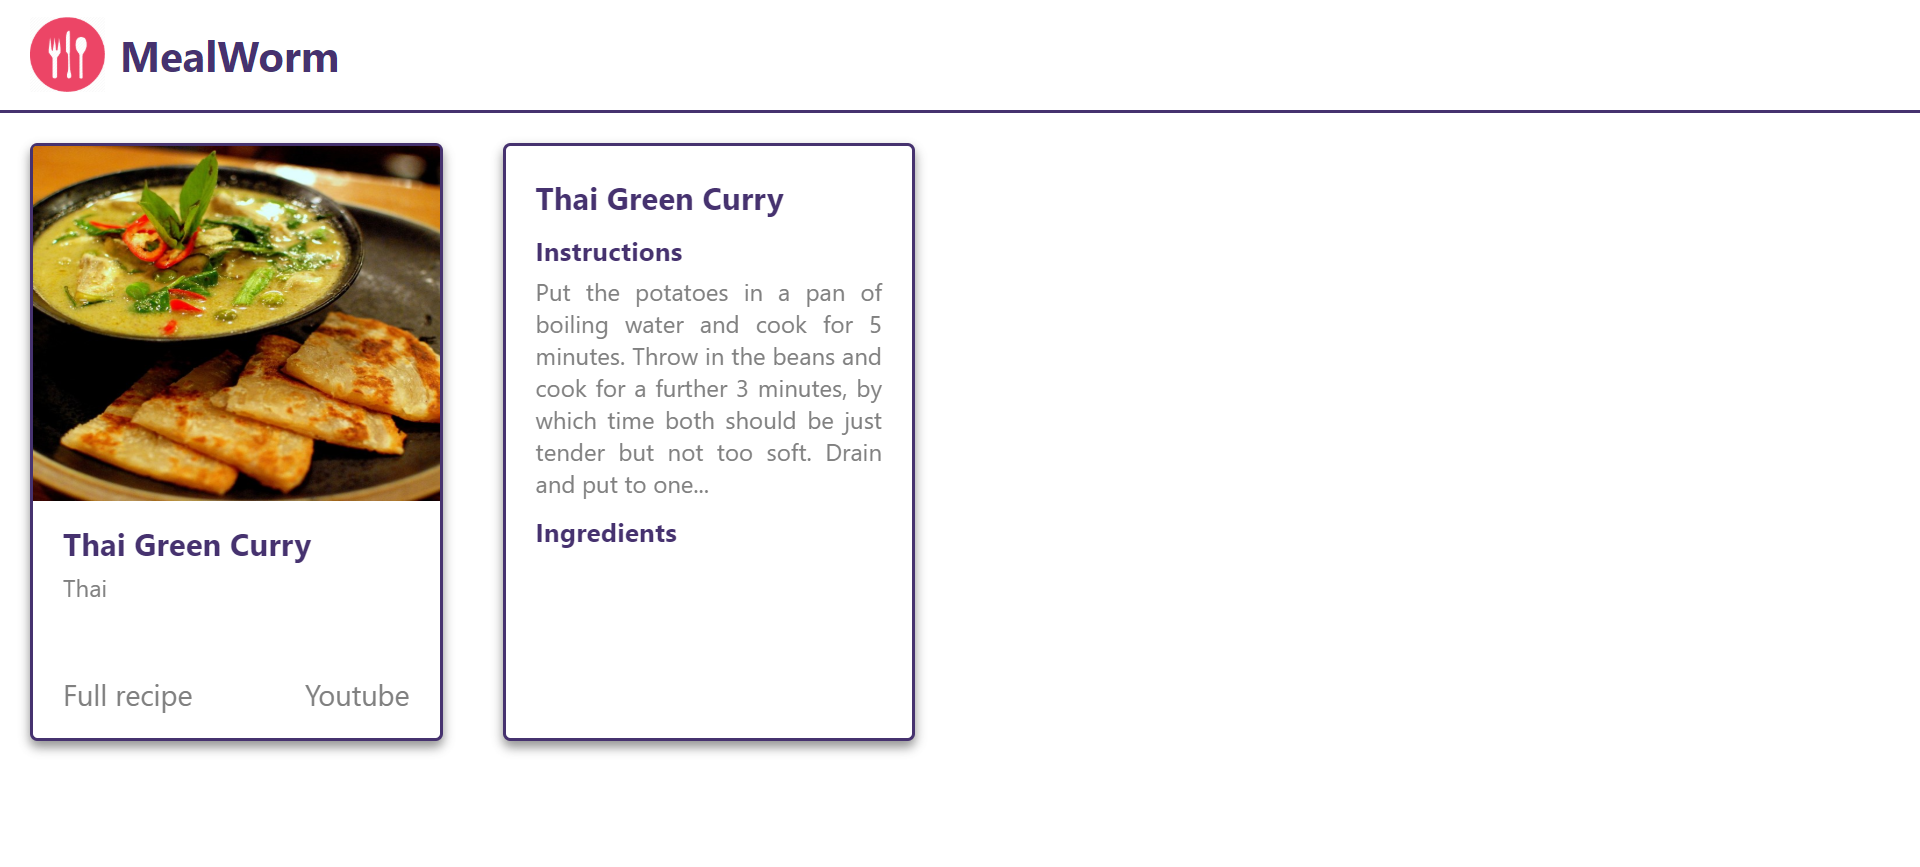
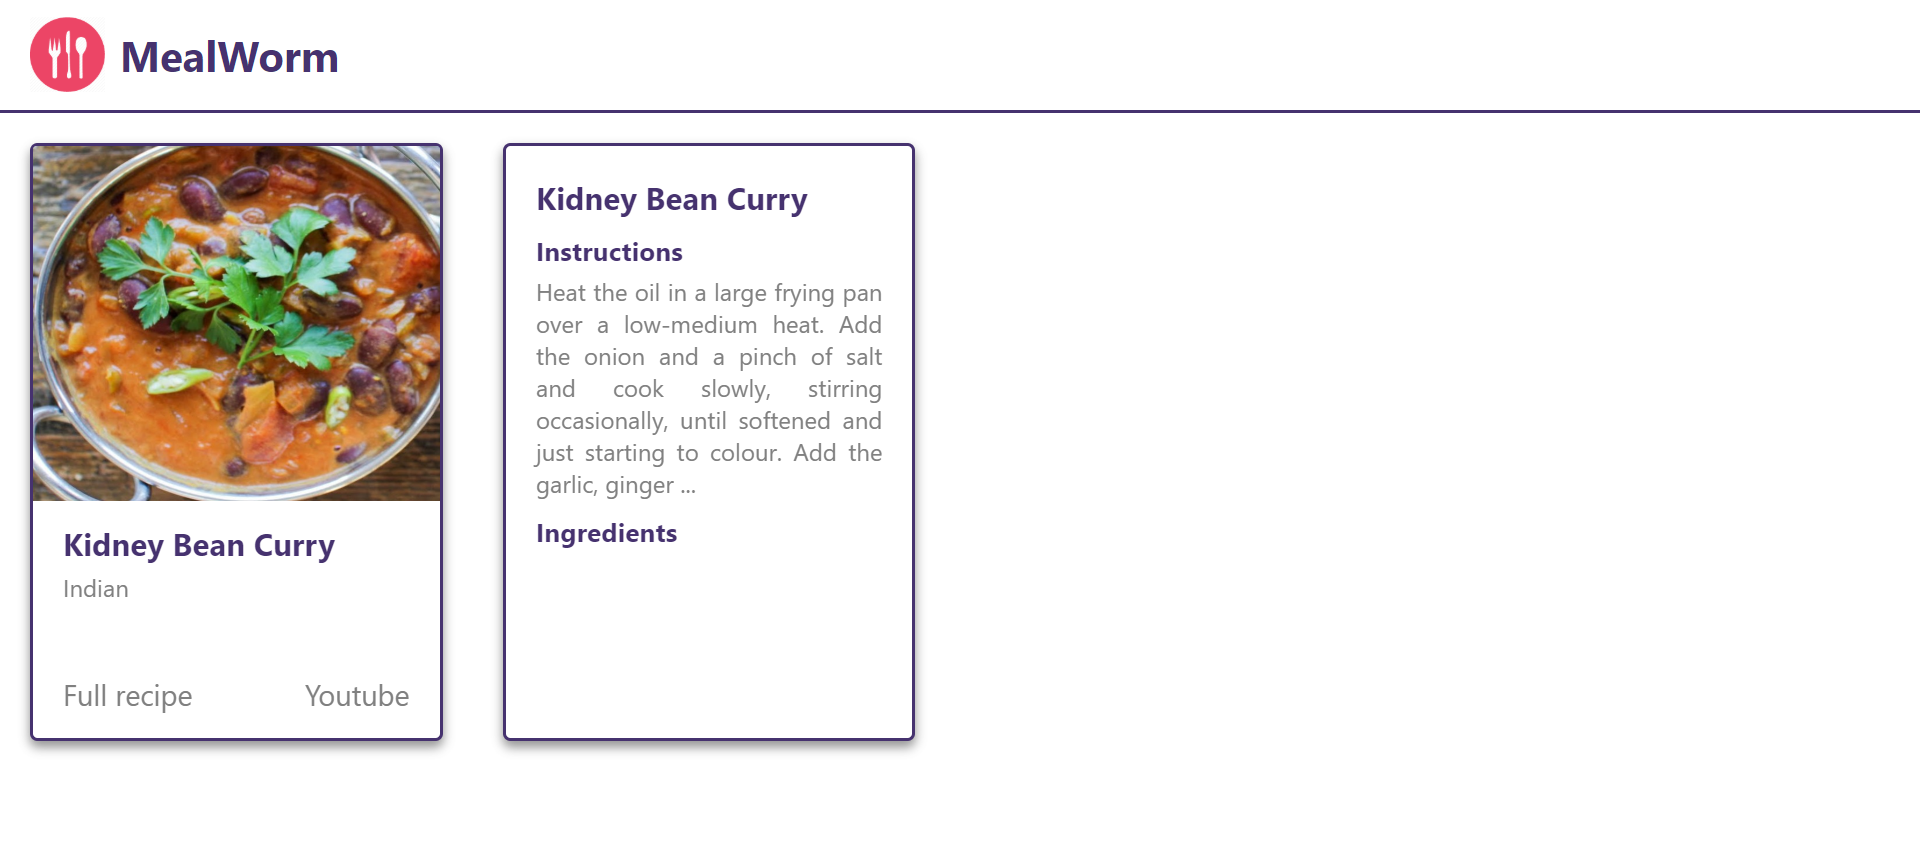
Branch ready - docs updated

Changed region(s): [[0.0, 0.1557, 0.25, 0.6851], [0.2812, 0.2803, 0.4688, 0.6228], [0.2812, 0.218, 0.4375, 0.2491]]

diff --git a/src/components/CardFront/CardFront.jsx b/src/components/CardFront/CardFront.jsx
@@ -1,28 +1,33 @@
 import React, { Component } from "react";
 import styles from "./CardFront.module.scss";
 
-class CardFront extends Component {
-  render() {
-    return (
-      <div className={styles.cardFront}>
-        <img src="https://www.themealdb.com/images/media/meals/sstssx1487349585.jpg" alt="Thai Green Curry" />
-        <section className={styles.recipeDetails}>
-          <h2>Thai Green Curry</h2>
-          <p>
-            <span>Thai</span>
-          </p>
-          <div className={styles.links}>
-            <a href="" target="_blank" rel="noopener noreferrer">
-              Full recipe
-            </a>
-            <a href="https://www.youtube.com/watch?v=LIbKVpBQKJI" target="_blank" rel="noopener noreferrer">
-              Youtube
-            </a>
-          </div>
-        </section>
-      </div>
-    );
-  }
-}
+const CardFront = (props) => {
+  const {
+    strMeal,
+    strMealThumb,
+    strYoutube,
+    strSource,
+    strArea,
+  } = props.recipe;
 
+  return ( <div className={styles.cardFront}>
+    <img src={strMealThumb} alt="Thai Green Curry" />
+    <section className={styles.recipeDetails}>
+      <h2>{strMeal}</h2>
+      <p>
+        <span>{strArea}</span>
+      </p>
+      <div className={styles.links}>
+        <a href={strSource} target="_blank" rel="noopener noreferrer">
+          Full recipe
+        </a>
+        <a href={strYoutube} target="_blank" rel="noopener noreferrer">
+          Youtube
+        </a>
+      </div>
+    </section>
+  </div> );
+}
+ 
 export default CardFront;
+

diff --git a/src/App.jsx b/src/App.jsx
@@ -4,20 +4,18 @@ import CardFront from "./components/CardFront";
 import CardBack from "./components/CardBack";
 import NavBar from "./components/NavBar";
 
-class App extends Component {
-  render() {
-    return (
-      <>
-        <section className={styles.nav}>
-          <NavBar />
-        </section>
-        <section className={styles.content}>
-          <CardFront />
-          <CardBack />
-        </section>
-      </>
-    );
-  }
-}
+import recipes from "./data/recipes";
 
+const App = () => {
+  return ( <>
+    <section className={styles.nav}>
+      <NavBar />
+    </section>
+    <section className={styles.content}>
+      <CardFront recipe={recipes[1]} />
+      <CardBack />
+    </section>
+  </>  );
+}
+ 
 export default App;

diff --git a/README.md b/README.md
@@ -1,14 +1,17 @@
-# CODE ALONG NOTES
+# CHALLENGE NOTES
 
-Edit the CardFront component so that it takes in a recipe object as props.
+- Edit the CardBack component so that it takes in a recipe object as props
+- Display the information for Meal name and the instrustions from the props recipe
+- Pass recipes[1] into the CardBack component from App.jsx
 
-## STEPS
+## EXTENSION
 
-- Edit the CardFront component so that it takes in a recipe Object as props
-- Destructure the recipe object in the render method
-- Replace hard coded CardFont data with recipe info passed in as props
-- Pass recipes[1] in as props from App.jsx
+- Create a method on the class that will shorten the instructions to 300 characters if it is above that length (see screenshot)
 
-## Challenge branch
+## Solution screenshot
 
-4-props-ch
+![solution](./src/assets/solution.png)
+
+## Completed branch
+
+5-map-data-ca
